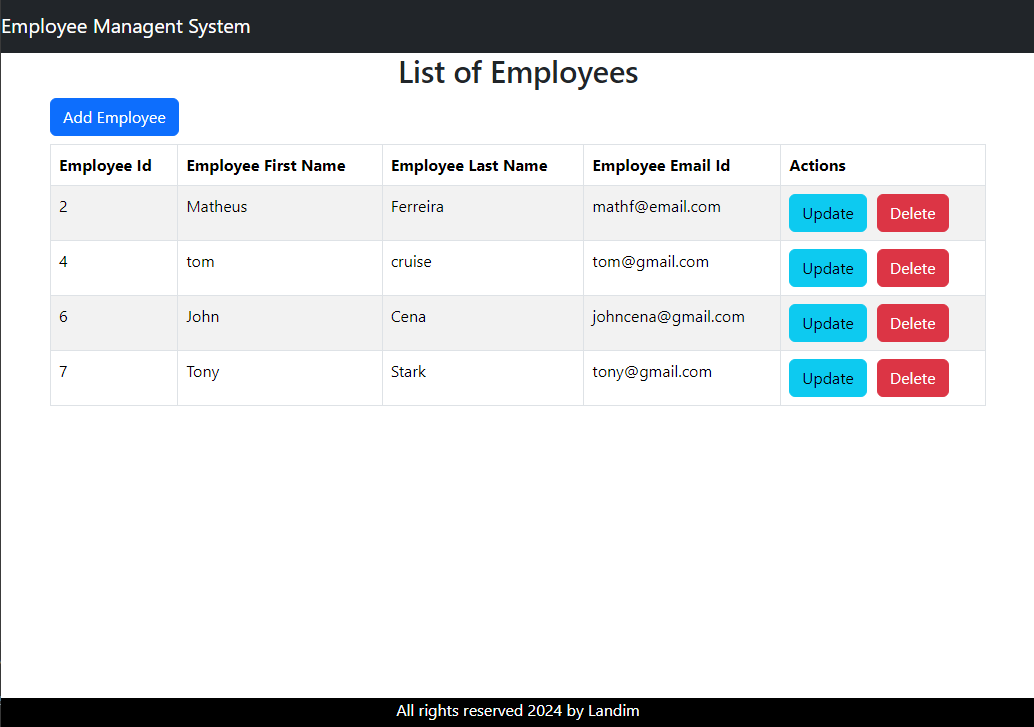
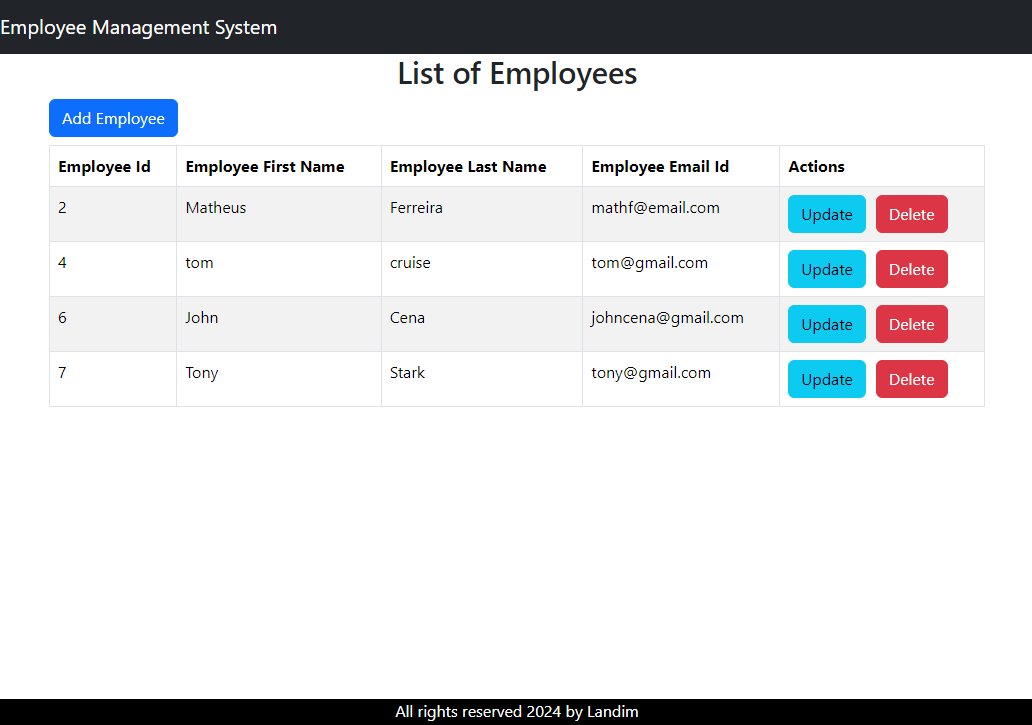
readme and fix employee component

diff --git a/src/components/HeaderComponent.jsx b/src/components/HeaderComponent.jsx
@@ -6,7 +6,7 @@ const HeaderComponent = () => {
     <div>
         <header>
             <nav className='navbar navbar-dark bg-dark'>
-                <a className="navbar-brand" href='#'>Employee Managent System</a>
+                <a className="navbar-brand" href='#'>Employee Management System</a>
             </nav>
         </header>
     </div>

diff --git a/src/components/EmployeeComponent.jsx b/src/components/EmployeeComponent.jsx
@@ -156,3 +156,4 @@ const EmployeeComponent = () => {
     </div>
   )
 }
+export default EmployeeComponent

diff --git a/README.md b/README.md
@@ -7,12 +7,12 @@ It's a simple CRUD system using React
 </p>
 
 <p align="center">
-  <img alt="GitHub language count" src="" />
-  <a href="">
-    <img src=""/>
+  <img alt="GitHub language count" src="https://img.shields.io/github/languages/top/LandimHector/ems-crud-frontend?color=brightgreen" />
+  <a href="https://github.com/LandimHector">
+    <img src="https://img.shields.io/badge/github-LandimHector-7159C1?logo=GitHub"/>
   </a>
-  <a href="">
-    <img src=""/>
+  <a href="https://www.linkedin.com/in/hectorlandim/">
+    <img src="https://img.shields.io/badge/linkedin-hectorlandim-blue?logo=linkedin"/>
   </a>
 </p>
 
@@ -33,5 +33,6 @@ npm install
 ## Run
 
 ```
+npm run build
 npm run dev
 ```
